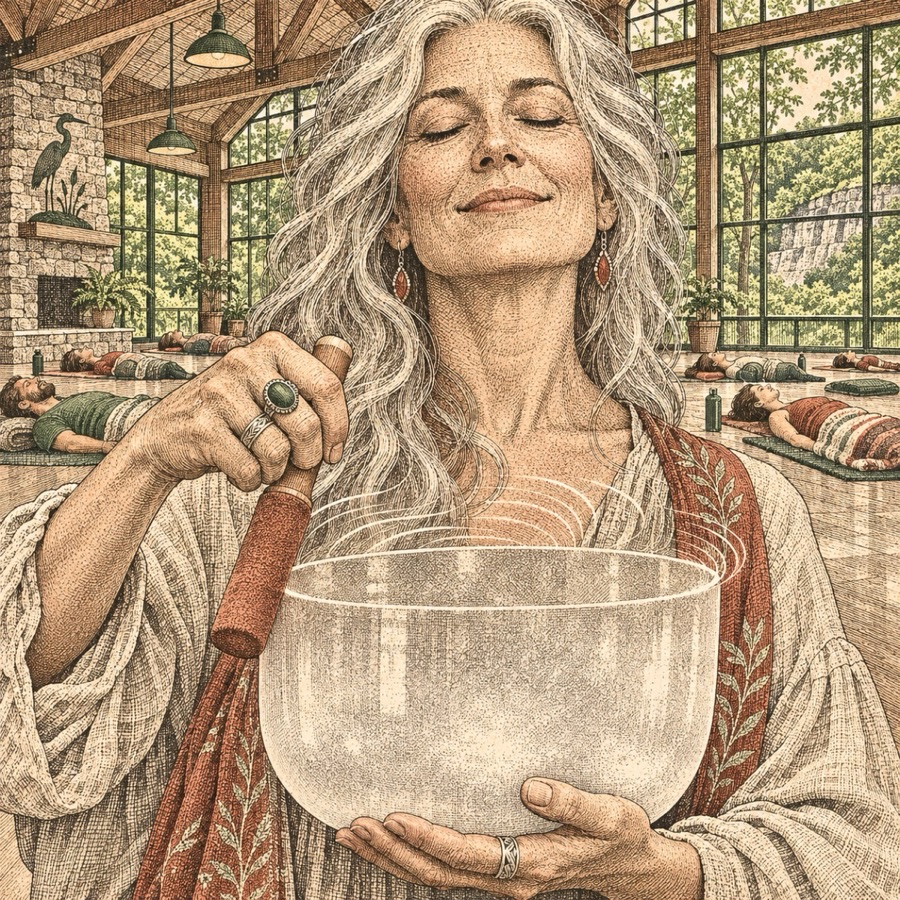
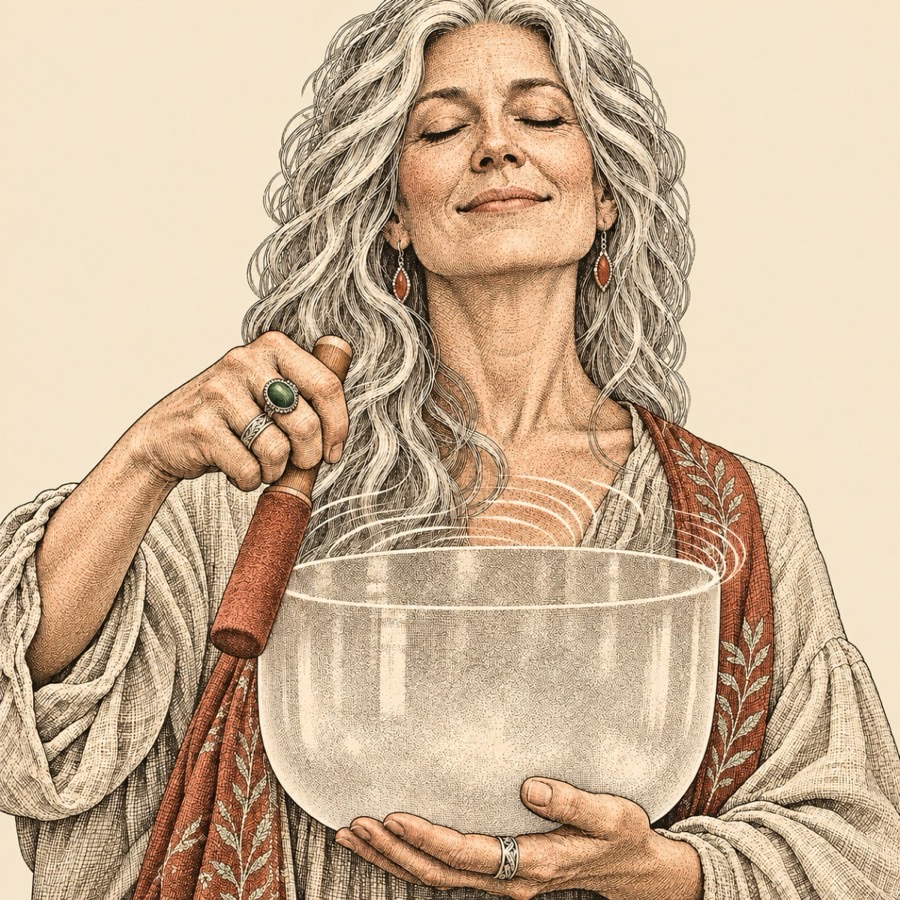
No. 21 art: backgrounds cleared to plain cream, matching the framed No. 20 pieces
Each picture was edited in its own ChatGPT chat so the subjects stayed. Andy's framed
prints are now the standard; the locked prompt and the check follow them.

diff --git a/.claude/skills/sokno-ear-art/SKILL.md b/.claude/skills/sokno-ear-art/SKILL.md
@@ -13,37 +13,31 @@ when that grant is refused in a scheduled run, at chatgpt.com in the built-in br
 (Andy: "each week we want to use computer control and ChatGPT Image").** The Higgsfield recipes
 stay for the portrait and diagram modes and as a fallback.
 
-## The locked prompt (agreed with Andy, 2026-11-02)
+## The locked prompt (set with Andy, 2026-11-02)
 
-**`content/art-style.json` is the one wrapper for every picture, word for word:**
+**The standard is the No. 20 pieces Andy framed and had signed: the upright bass, the opossum, the bull rider, the Día de los Muertos face. One subject, large, crisp black ink, popping off plain cream paper. New pictures must look like the same artist.**
+
+`content/art-style.json` is the wrapper, word for word:
 
 > Generate an image, 1:1 aspect ratio. A vintage local-newspaper engraving: [the subject and what
-> it's doing, the crop, two or three details], large in the frame. Behind it, [the real place
-> from the story], drawn in the same ink and filling the space behind the subject. Predominantly
-> black ink linework with stipple dots and cross-hatch shading, slight engraving texture, warm
-> cream paper, restrained accents in muted pine green and rust red. Charming and specific, not
-> generic. Hand-drawn local newspaper engraving, not a photograph, not flat vector. No text or
-> letters anywhere.
+> it's doing, the crop, two or three details], large in the frame. Behind it, nothing but plain,
+> clean warm cream paper #F3E8D2, so the subject pops off the page. Predominantly crisp black ink
+> linework with stipple dots and cross-hatch shading, strong contrast, slight engraving texture,
+> restrained accents in muted pine green and rust red. Charming and specific, not generic.
+> Hand-drawn local newspaper engraving, not a photograph, not flat vector. No text or letters anywhere.
 
-**Don't restyle it.** The style has worked for 20 episodes. A note about one thing (Andy asked
-for backgrounds) means changing that one thing. On 2026-11-02 I answered that note by adding
-"vivid", "woodcut", sunburst rays and screaming faces, and lost the look twice. Andy's test for the
-energy is No. 20's bull rider: a laugh on her face, the action in the flying hat and cape.
+**Why it reads this way.** On No. 21 Andy said the figures sat on blank paper, and I answered with full rooms and crowds, then posters and rays. Each lost the iconic pop. His own conclusion: "I guess we do have blank cream backgrounds on a lot of them to keep the main subject in focus." What makes plain paper work is a subject big and inked enough to carry the frame. A small pale figure on paper still fails, so fix the subject, not the background.
 
-- **Subject lines stay ordinary:** "a laughing woman", not "mid-scream", "head thrown back" or
-  "bursting". Excitement comes from what's happening around the person.
-- **No rays, sunbursts, stripes, checkerboards or color fields** behind anyone. The background is
-  the actual place: the taproom, the patio, the lawn.
-- **Never "no background scenery"** or "cream paper background": together they gave a figure on
-  blank paper (No. 21's first set, rejected).
+- **A note about one picture changes that picture.** Keep the rest.
+- **A background is the rare exception:** one simple object when the picture wouldn't read without it, like one shelf of loaves behind the baker.
+- **To change a finished picture, edit it in its own ChatGPT chat** ("keep the subject exactly as drawn; replace the background with plain, clean warm cream paper #F3E8D2"). The subject holds. A new prompt redraws everything.
+- **Subject lines stay ordinary:** "a laughing woman", not "mid-scream". The energy is in the action and props, as in the flying hat and cape.
+- **No rays, sunbursts, stripes, checkerboards or color fields.**
 - **Pine, not teal.** The site's `--teal` token is page chrome, not an art color.
-- **Run `node scripts/art-check.mjs <slug>` before the draft ships**, then look at a contact sheet
-  beside last week's: the check can't judge a face or a line.
+- **Run `node scripts/art-check.mjs <slug>` before the draft ships**, then look at a contact sheet beside the framed pieces: the check can't judge a face or a line.
 - **Optimize before committing:** `scripts/optimize-image.sh <in> <out.jpg> 900 84`
-- **Place under:** `public/assets/spots/<name>.jpg` (art) or `public/assets/diagrams/<name>`
-  (diagrams); reference in the episode JSON `image` / `imageTop` field, or in a page `<Figure>`.
-- After viewing each result with the Read tool, only ship it if it reads at small size (the
-  120-pixel test under Mode 1).
+- **Place under:** `public/assets/spots/<name>.jpg` (art) or `public/assets/diagrams/<name>` (diagrams); reference in the episode JSON `image` / `imageTop` field, or in a page `<Figure>`.
+- After viewing each result with the Read tool, only ship it if it reads at small size (the 120-pixel test under Mode 1).
 
 ---
 
